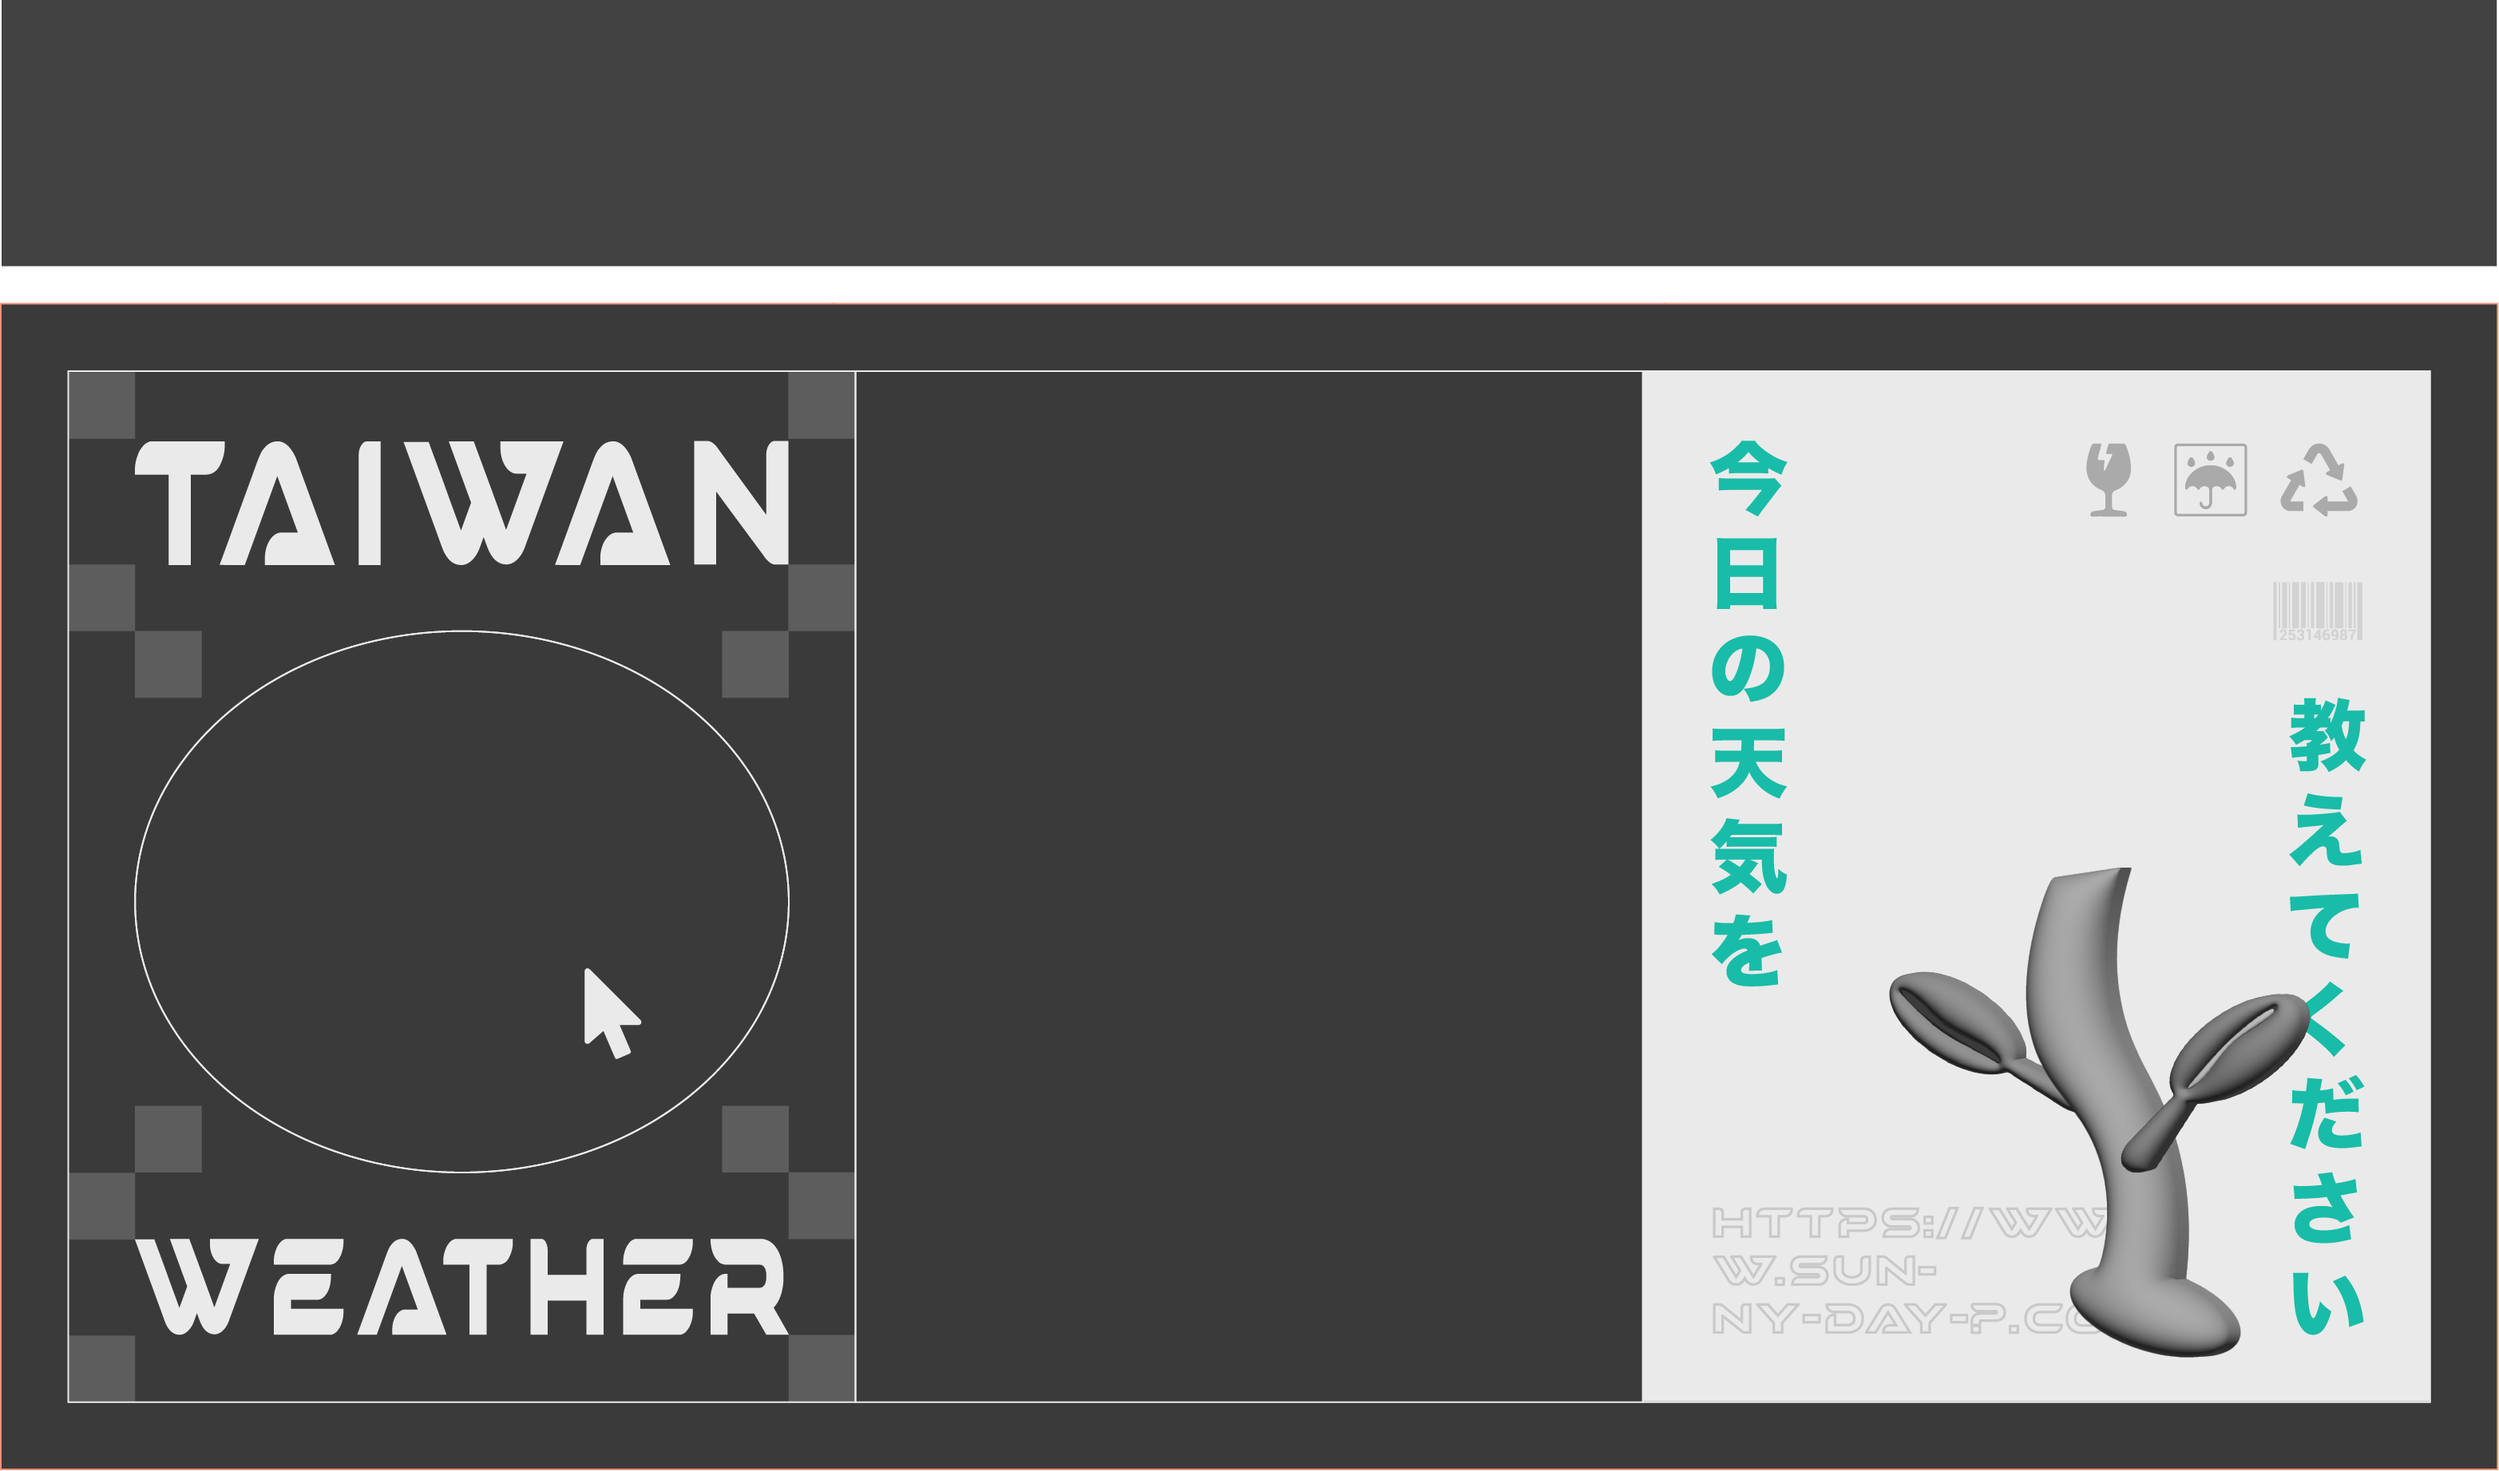
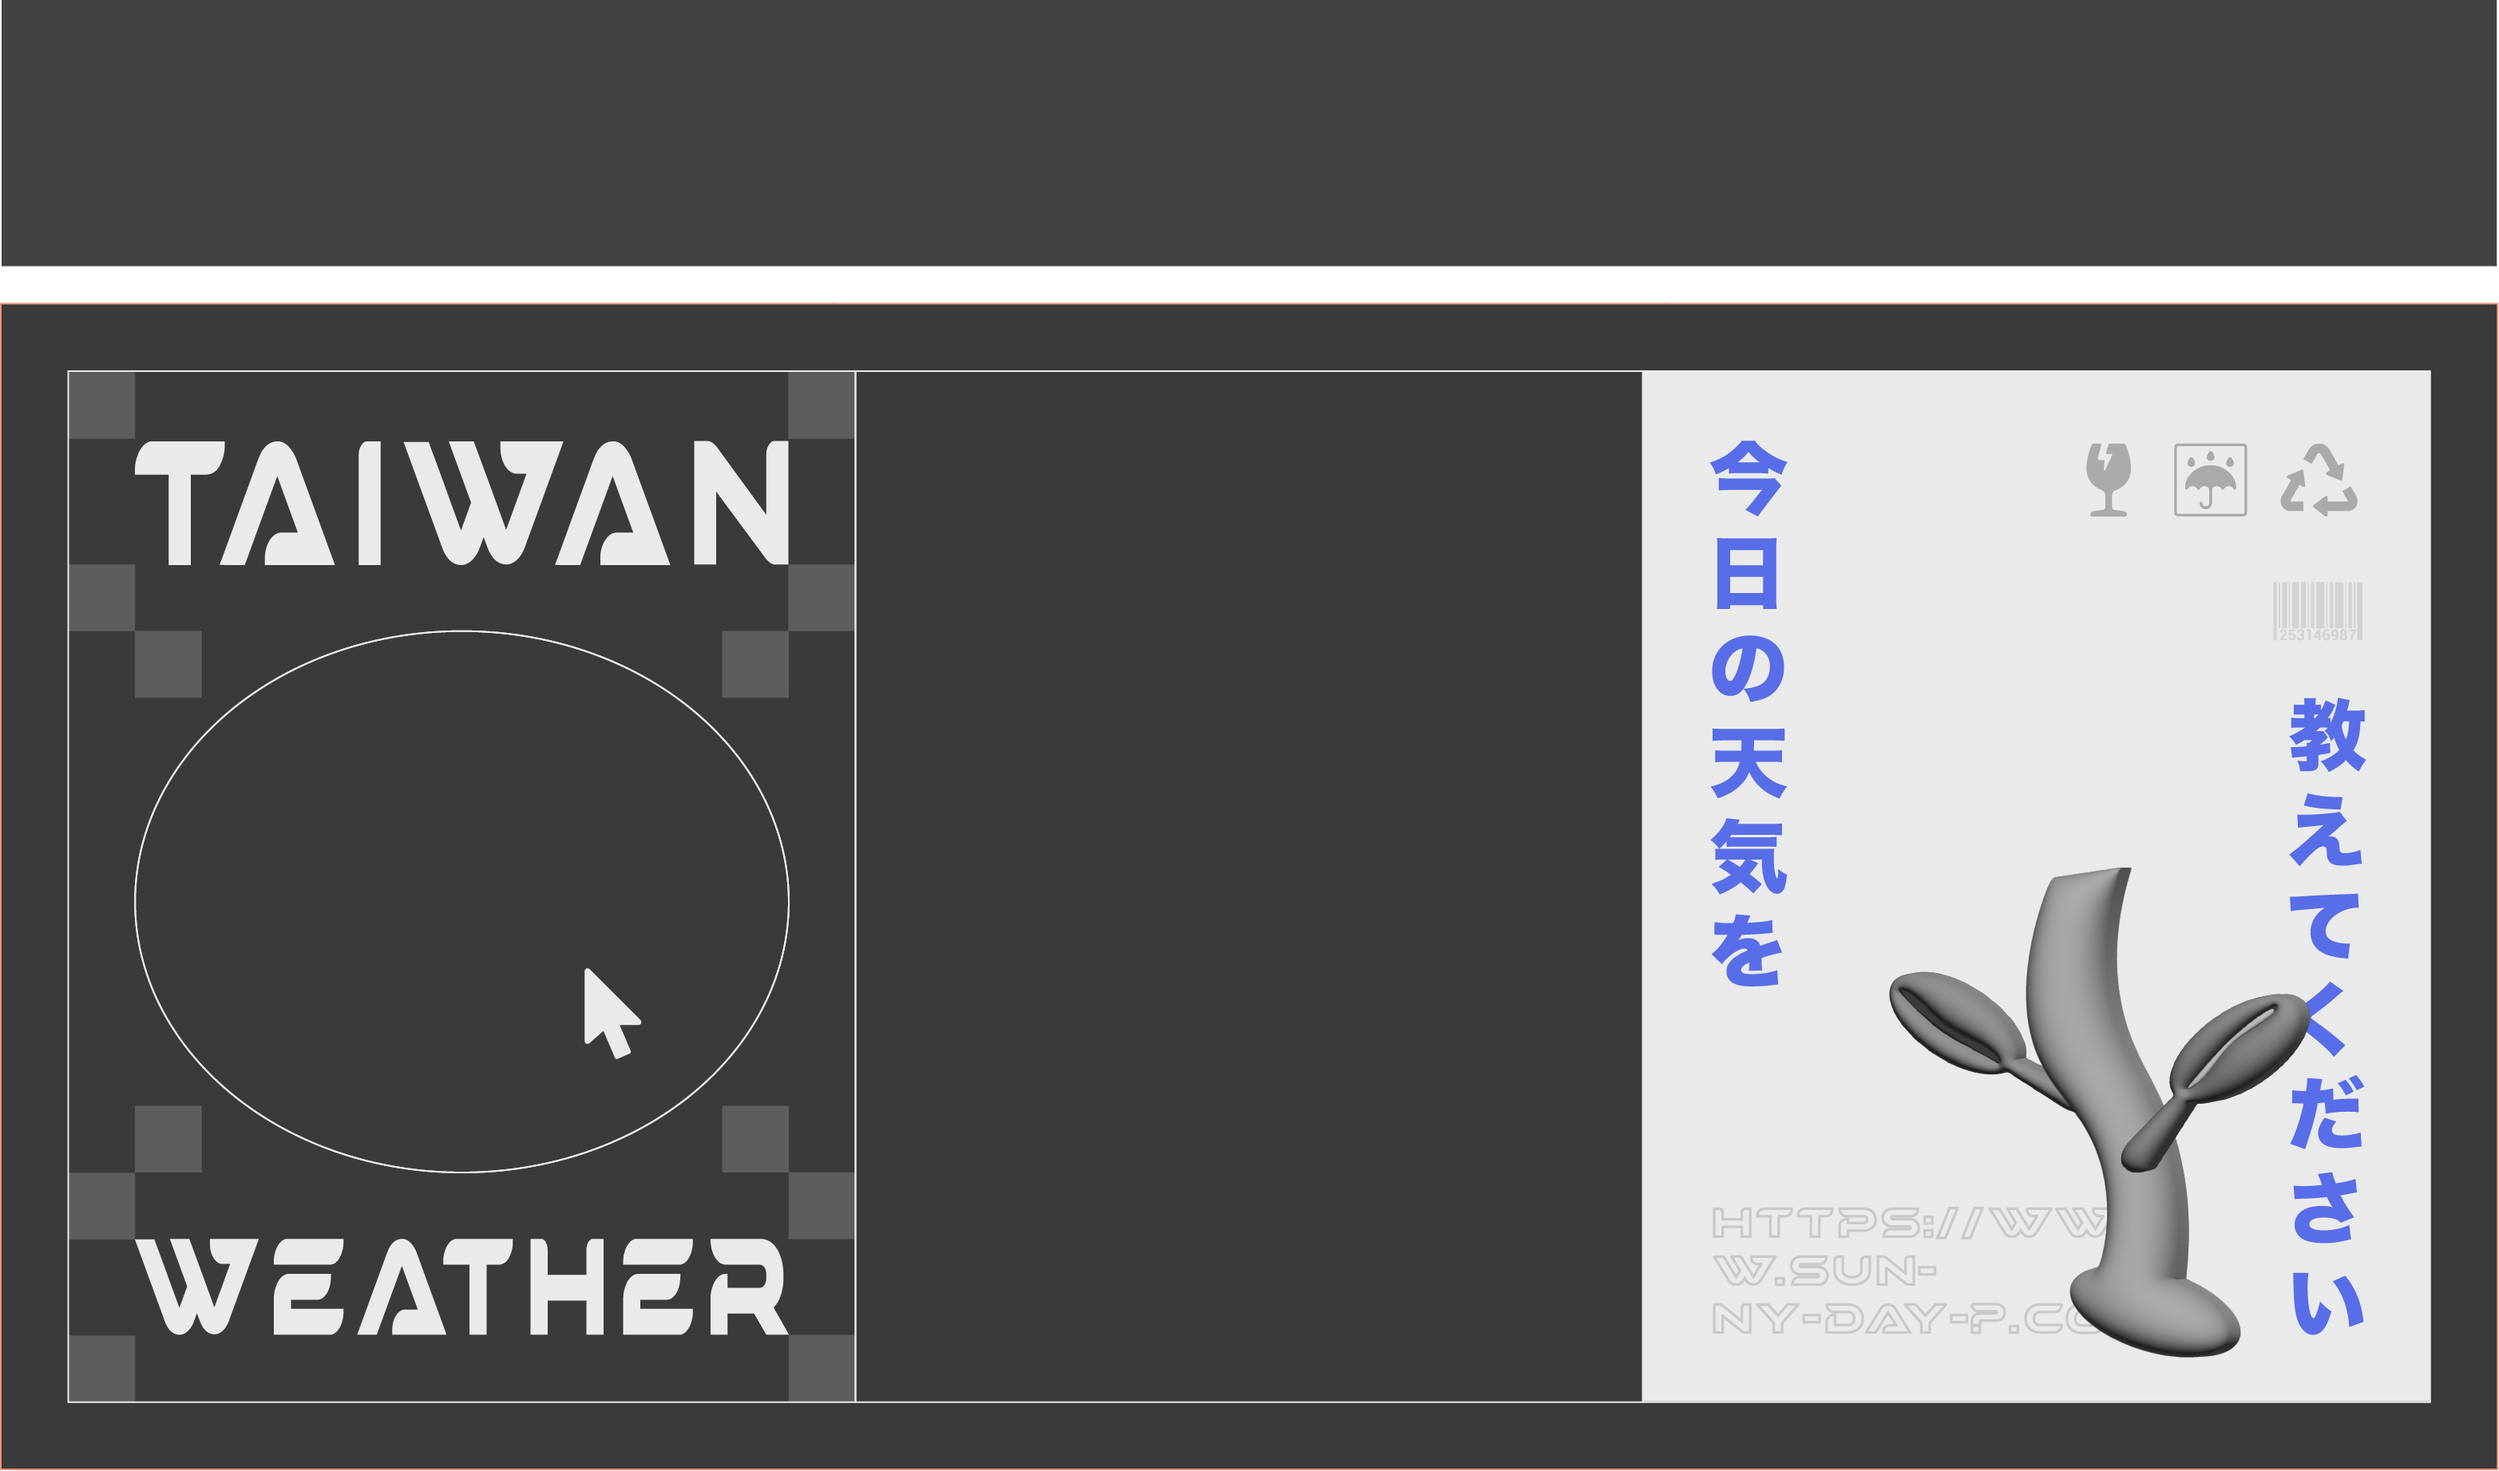
fix:main color; feat:locaiton class name

diff --git a/index.html b/index.html
@@ -70,7 +70,7 @@
           class="btnLeft z-30 absolute top-1 left-5 p-5 flex justify-center gap-5 text-[#EAEAEA] text-xl font-bold"
         >
           <div
-            class="chooseBtn cursor-pointer border-2 py-3 px-5 rounded-full hover:bg-[#19BCA8] active:opacity-50"
+            class="chooseBtn cursor-pointer border-2 py-3 px-5 rounded-full hover:bg-[#586DE8] active:opacity-50"
           >
             <span>
               AREAS&nbsp;&nbsp;<span class="caret"
@@ -82,7 +82,7 @@
 
         <!-- 下拉式選單 -->
         <div
-          class="areasDropMenu hidden absolute top-24 left-24 w-28 h-60 bg-[#EAEAEA] border-2 border-[#19BCA8] rounded-md overflow-auto px-2"
+          class="areasDropMenu hidden absolute top-24 left-24 w-28 h-60 bg-[#EAEAEA] border-2 border-[#586DE8] rounded-md overflow-auto px-2"
         >
           <div class="text-md font-bold text-[#5E5D5D] w-20 flex-col gap-40">
             <div
@@ -90,25 +90,39 @@
             >
               北部
             </div>
-            <div class="cursor-pointer hover:text-[#19BCA8] active:opacity-50">
+            <div
+              class="location location-KEL cursor-pointer hover:text-[#586DE8] active:opacity-50"
+            >
               基隆市
             </div>
-            <div class="cursor-pointer hover:text-[#19BCA8] active:opacity-50">
+            <div
+              class="location location-TPC cursor-pointer hover:text-[#586DE8] active:opacity-50"
+            >
               臺北市
             </div>
-            <div class="cursor-pointer hover:text-[#19BCA8] active:opacity-50">
+            <div
+              class="location location-NTPC cursor-pointer hover:text-[#586DE8] active:opacity-50"
+            >
               新北市
             </div>
-            <div class="cursor-pointer hover:text-[#19BCA8] active:opacity-50">
+            <div
+              class="location location-ILA cursor-pointer hover:text-[#586DE8] active:opacity-50"
+            >
               宜蘭縣
             </div>
-            <div class="cursor-pointer hover:text-[#19BCA8] active:opacity-50">
+            <div
+              class="location location-TYN cursor-pointer hover:text-[#586DE8] active:opacity-50"
+            >
               桃園市
             </div>
-            <div class="cursor-pointer hover:text-[#19BCA8] active:opacity-50">
+            <div
+              class="location location-HSZ-1 cursor-pointer hover:text-[#586DE8] active:opacity-50"
+            >
               新竹縣
             </div>
-            <div class="cursor-pointer hover:text-[#19BCA8] active:opacity-50">
+            <div
+              class="location location-HSZ-2 cursor-pointer hover:text-[#586DE8] active:opacity-50"
+            >
               新竹市
             </div>
 
@@ -117,19 +131,29 @@
             >
               中部
             </div>
-            <div class="cursor-pointer hover:text-[#19BCA8] active:opacity-50">
+            <div
+              class="location location-ZMI cursor-pointer hover:text-[#586DE8] active:opacity-50"
+            >
               苗栗縣
             </div>
-            <div class="cursor-pointer hover:text-[#19BCA8] active:opacity-50">
+            <div
+              class="location location-NTC cursor-pointer hover:text-[#586DE8] active:opacity-50"
+            >
               南投縣
             </div>
-            <div class="cursor-pointer hover:text-[#19BCA8] active:opacity-50">
+            <div
+              class="location location-TXG cursor-pointer hover:text-[#586DE8] active:opacity-50"
+            >
               臺中市
             </div>
-            <div class="cursor-pointer hover:text-[#19BCA8] active:opacity-50">
+            <div
+              class="location location-CHW cursor-pointer hover:text-[#586DE8] active:opacity-50"
+            >
               彰化縣
             </div>
-            <div class="cursor-pointer hover:text-[#19BCA8] active:opacity-50">
+            <div
+              class="location location-YUN cursor-pointer hover:text-[#586DE8] active:opacity-50"
+            >
               雲林縣
             </div>
 
@@ -138,20 +162,35 @@
             >
               南部
             </div>
-            <div class="cursor-pointer hover:text-[#19BCA8] active:opacity-50">
+            <div
+              class="location location-CYI cursor-pointer hover:text-[#586DE8] active:opacity-50"
+            >
               嘉義縣
             </div>
-            <div class="cursor-pointer hover:text-[#19BCA8] active:opacity-50">
+            <div
+              class="location location-CYI-2 cursor-pointer hover:text-[#586DE8] active:opacity-50"
+            >
               嘉義市
             </div>
-            <div class="cursor-pointer hover:text-[#19BCA8] active:opacity-50">
+            <div
+              class="location location-TNN cursor-pointer hover:text-[#586DE8] active:opacity-50"
+            >
               臺南市
             </div>
-            <div class="cursor-pointer hover:text-[#19BCA8] active:opacity-50">
+            <div
+              class="location location-KHH cursor-pointer hover:text-[#586DE8] active:opacity-50"
+            >
               高雄市
             </div>
-            <div class="cursor-pointer hover:text-[#19BCA8] active:opacity-50">
+            <div
+              class="location location-PIF cursor-pointer hover:text-[#586DE8] active:opacity-50"
+            >
               屏東縣
+            </div>
+            <div
+              class="location location-PEH cursor-pointer hover:text-[#586DE8] active:opacity-50"
+            >
+              澎湖縣
             </div>
 
             <div
@@ -159,10 +198,14 @@
             >
               東部
             </div>
-            <div class="cursor-pointer hover:text-[#19BCA8] active:opacity-50">
+            <div
+              class="location location-TTT cursor-pointer hover:text-[#586DE8] active:opacity-50"
+            >
               臺東縣
             </div>
-            <div class="cursor-pointer hover:text-[#19BCA8] active:opacity-50">
+            <div
+              class="location location-HUN cursor-pointer hover:text-[#586DE8] active:opacity-50"
+            >
               花蓮縣
             </div>
 
@@ -171,16 +214,15 @@
             >
               離島
             </div>
-            <div class="cursor-pointer hover:text-[#19BCA8] active:opacity-50">
+            <div
+              class="location location-KNH cursor-pointer hover:text-[#586DE8] active:opacity-50"
+            >
               金門縣
             </div>
-            <div class="cursor-pointer hover:text-[#19BCA8] active:opacity-50">
-              連江縣
-            </div>
             <div
-              class="cursor-pointer hover:text-[#19BCA8] active:opacity-50 mb-6"
+              class="location location-LNN cursor-pointer hover:text-[#586DE8] active:opacity-50 mb-6"
             >
-              澎湖縣
+              連江縣
             </div>
           </div>
         </div>
@@ -190,7 +232,7 @@
           class="btnRight absolute top-1 right-5 p-5 flex justify-center gap-5 text-[#EAEAEA] text-xl font-bold"
         >
           <button
-            class="resetBtn cursor-pointer border-2 p-3 rounded-full hover:bg-[#19BCA8] active:opacity-50"
+            class="resetBtn cursor-pointer border-2 p-3 rounded-full hover:bg-[#586DE8] active:opacity-50"
           >
             <i class="fa-solid fa-reply"></i>
           </button>
@@ -254,8 +296,8 @@
         }
       });
 
-      const string = "今日の天気はどうですか";
-      const strOriginal = string.split(""); // 原始字串陣列
+      const words = "今日の天気はどうですか";
+      const word = words.split(""); // 原始字串陣列
       const el = document.getElementById("dialog");
       const dialogFrame = document.querySelector(".dialogFrame");
       const dialogContent = document.querySelector(".dialogContent");
@@ -263,8 +305,8 @@
       let running; // 計時器變數
 
       function animate() {
-        if (strOriginal.length > 0) {
-          el.innerHTML += strOriginal.shift(); // 逐字顯示
+        if (word.length > 0) {
+          el.innerHTML += word.shift(); // 逐字顯示
           running = setTimeout(animate, 150);
         } else {
           clearTimeout(running); // 停止計時器
@@ -276,10 +318,12 @@
 
       // 點擊 Reset 按鈕時，重置動畫
       resetBtn.addEventListener("click", () => {
-        clearTimeout(running); // 清除計時器
+        dialogFrame.style.display = "block";
+        dialogContent.style.display = "block";
+
         el.innerHTML = ""; // 清空文字
-        strOriginal.length = 0; // 清空舊字串
-        strOriginal.push(...string.split("")); // 重新填充陣列
+        word.length = 0; // 清空舊字串
+        word.push(...words.split("")); // 重新填充陣列
 
         // 重新啟動動畫
         setTimeout(animate, 1000);
@@ -298,6 +342,15 @@
         dialogFrame.classList.add("animate__fadeIn");
         dialogContent.classList.add("animate__fadeIn");
       });
+
+      // 點擊縣市 -> 隱藏 dialog
+      let locations = document.querySelectorAll(".location");
+      locations.forEach((location) =>
+        location.addEventListener("click", () => {
+          dialogFrame.style.display = "none";
+          dialogContent.style.display = "none";
+        })
+      );
     </script>
   </body>
 </html>

diff --git a/src/output.css b/src/output.css
@@ -1558,6 +1558,9 @@
   .border-\[\#19BCA8\] {
     border-color: #19BCA8;
   }
+  .border-\[\#586DE8\] {
+    border-color: #586DE8;
+  }
   .bg-\(--my_variable\) {
     background-color: var(--my_variable);
   }
@@ -2411,10 +2414,24 @@
       }
     }
   }
+  .hover\:bg-\[\#586DE8\] {
+    &:hover {
+      @media (hover: hover) {
+        background-color: #586DE8;
+      }
+    }
+  }
   .hover\:text-\[\#19BCA8\] {
     &:hover {
       @media (hover: hover) {
         color: #19BCA8;
+      }
+    }
+  }
+  .hover\:text-\[\#586DE8\] {
+    &:hover {
+      @media (hover: hover) {
+        color: #586DE8;
       }
     }
   }
